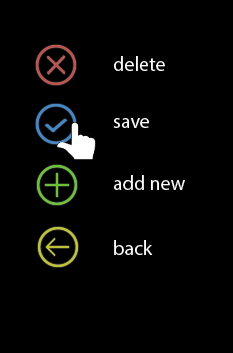
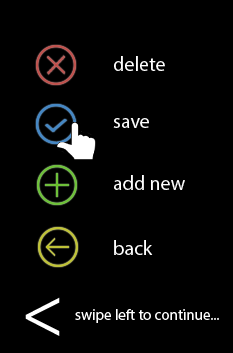
final images colour overlays edit 2

Changed region(s): [[0.3004, 0.8725, 0.9013, 0.9348], [0.0901, 0.8414, 0.2704, 0.966]]

diff --git a/HelpView.qml b/HelpView.qml
@@ -2,7 +2,7 @@ import QtQuick 2.0
 
 
 Rectangle {
-    color: "lightgray"
+    color: clrBackground
     anchors.fill: parent
     opacity: 0
     VisualItemModel {
@@ -11,34 +11,37 @@ Rectangle {
         Rectangle {
             width: view.width; height: view.height
             color: clrBackground
-            Text { text: "Help Page 1"; color: clrFont; font.bold: true; anchors.centerIn: parent }
-        }
-        Rectangle {
-            width: view.width; height: view.height
-            color: clrBackground
-            Text { text: "Help Page 2"; color: clrFont; font.bold: true; anchors.centerIn: parent }
-        }
-        Rectangle {
-            width: view.width; height: view.height
-            color: clrBackground
-            Text { text: "Help Page 3"; color: clrFont; font.bold: true; anchors.centerIn: parent }
-            Behavior on opacity { NumberAnimation {} }
-        }
-        Rectangle {
-            width: view.width; height: view.height
-            color: clrBackground
-
-            Flow{
+            Image {
+                id: imgbuttons1
+                source: "images/help_buttons.png"
                 anchors.centerIn: parent
-                anchors.fill: parent
-
-                Text {
-                    text: "Help Page 4. Close button here. Help needs 2b modal";
-                    color: clrFont
-                    clip: true
-                    font.bold: true;
-                    wrapMode: Text.WordWrap
-                }
+            }
+        }
+        Rectangle {
+            width: view.width; height: view.height
+            color: clrBackground
+            Image {
+                id: imgbuttons2
+                source: "images/help_dataView.png"
+                anchors.centerIn: parent
+            }
+        }
+        Rectangle {
+            width: view.width; height: view.height
+            color: clrBackground
+            Image {
+                id: imgbuttons3
+                source: "images/help_calendar.png"
+                anchors.centerIn: parent
+            }
+        }
+        Rectangle {
+            width: view.width; height: view.height
+            color: clrBackground
+            Image {
+                id: imgbuttons4
+                source: "images/help_sliders.png"
+                anchors.centerIn: parent
             }
         }
     }
